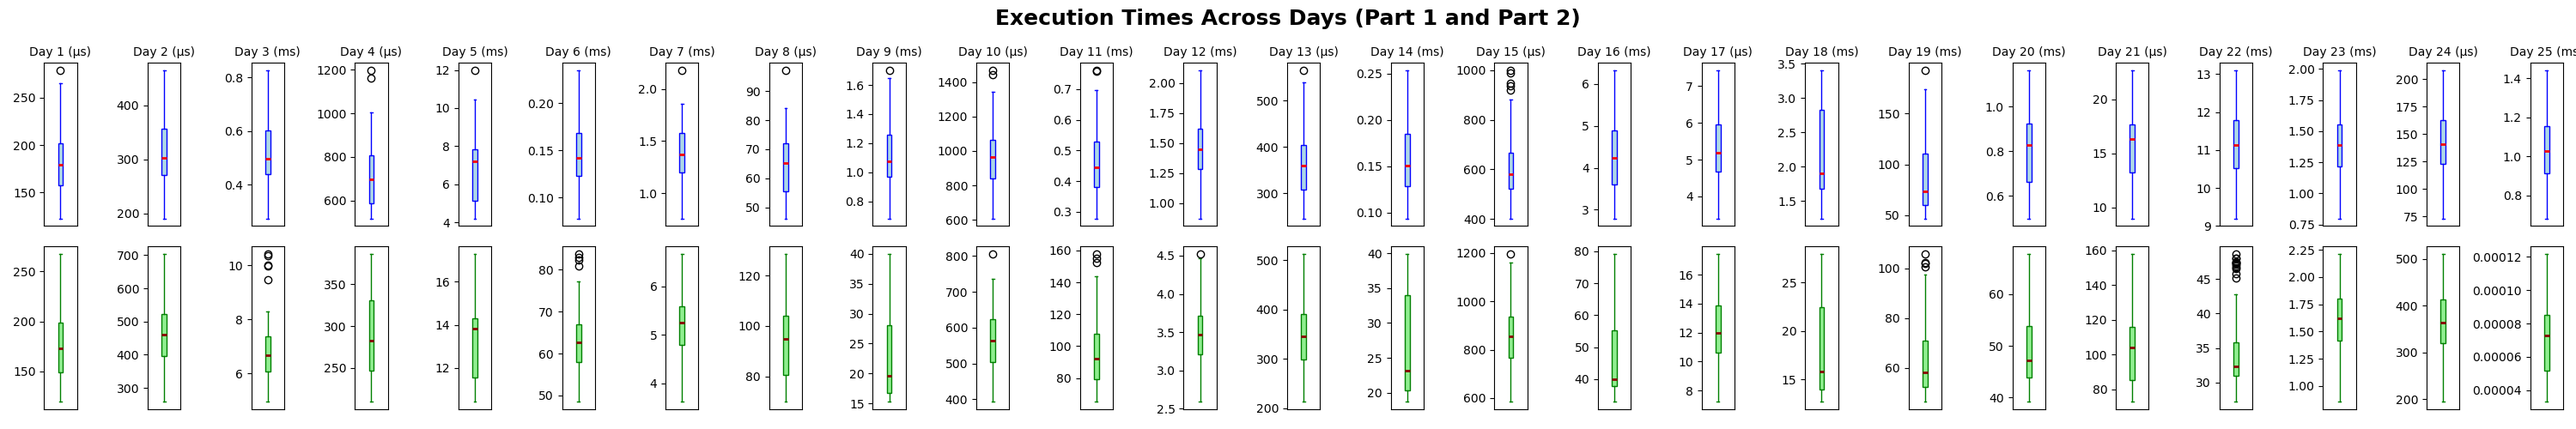
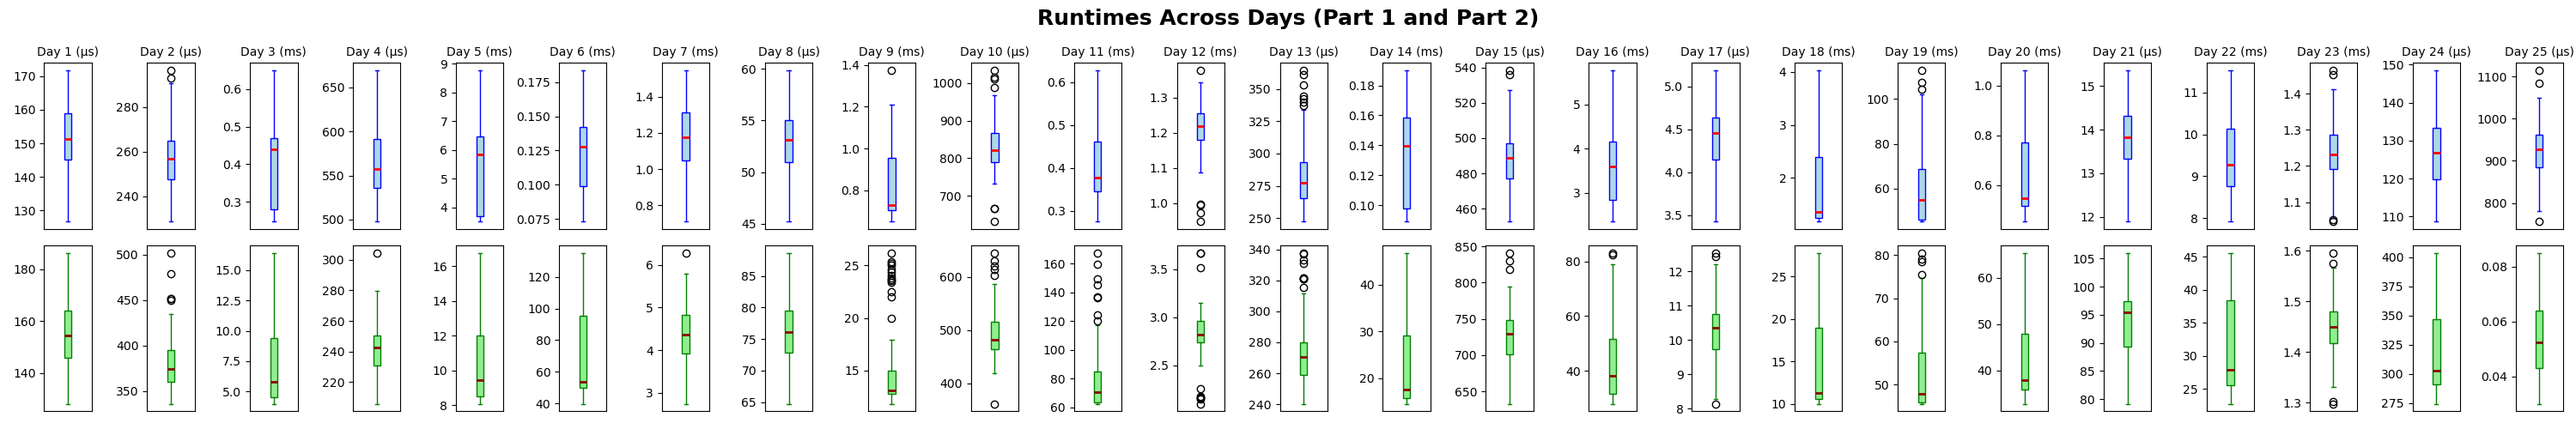
Better benchmark with bar graph

diff --git a/benchmark.py b/benchmark.py
@@ -7,6 +7,7 @@ import time
 
 import matplotlib.pyplot as plt
 import numpy as np
+from matplotlib import ticker
 
 
 # Function to parse the time value from the Rust output
@@ -144,7 +145,9 @@ def main(iterations=100):
                 print(f"Day {day} processing failed: {exc}")
 
     # Plot results
-    all_medians = []
+    part1_medians = []
+    part2_medians = []
+
     fig, axes = plt.subplots(2, days, figsize=(days * 1.2, 5), sharey=False)
     for i, day in enumerate(sorted(results.keys())):
         part1_clean, part2_clean = results[day]
@@ -152,8 +155,8 @@ def main(iterations=100):
         # Calculate the medians of the cleaned data
         part1_med = np.median(part1_clean)
         part2_med = np.median(part2_clean)
-        all_medians.append(part1_med)
-        all_medians.append(part2_med)
+        part1_medians.append(part1_med)
+        part2_medians.append(part2_med)
         print(f"| [Day {day}](./day{day}/src/main.rs) | {format_time(part1_med)} | {format_time(part2_med)} |")
 
         # Determine the appropriate unit and scale
@@ -186,18 +189,78 @@ def main(iterations=100):
         )
         ax2.set_xticks([])
 
-    # General title and finishing touches
-    fig.suptitle("Execution Times Across Days (Part 1 and Part 2)", fontsize=18, fontweight="bold")
-    plt.tight_layout()
-    plt.savefig("ExecutionTimes.png")
-    print("Plots saved as 'ExecutionTimes.png'.")
-
-    # Run each day once again to get total time
-    total_median = sum(all_medians)
-    print(f"Running each day once took {total_median:.2f} seconds.")
-
     end_time = time.time()
     print(f"Benchmarking process took {end_time - start_time:.2f} seconds.")
+
+    # Get the total median value to use for total time
+    total_median = sum(part1_medians) + sum(part2_medians)
+    print(f"Running each day once took {total_median:.2f} seconds.")
+
+    # General title and finishing touches
+    fig.suptitle("Runtimes Across Days (Part 1 and Part 2)", fontsize=18, fontweight="bold")
+    plt.tight_layout()
+    plt.savefig("ExecutionTimes.png")
+    plt.close()
+    print("Plots saved as 'ExecutionTimes.png'.")
+
+    # Generate the labels and bars of the graph
+    labels = [f"Day {i}" for i in range(1, days + 1)]
+    values_1 = [item * 1000 for item in part1_medians]
+    values_2 = [item * 1000 for item in part2_medians]
+
+    x = np.arange(len(labels))
+
+    # Setup the whole graph
+    width = 0.45
+    fig, ax = plt.subplots(figsize=(days * 1.5, 7))
+    rects1 = ax.bar(x - width / 2, values_1, width, label='Part 1')
+    rects2 = ax.bar(x + width / 2, values_2, width, label='Part 2')
+
+    # Add some text for labels, title and custom x-axis tick labels, etc.
+    ax.set_xticks(x)
+    ax.set_xticklabels(labels)
+    ax.set_xlim(-0.5, len(labels) - 0.5)
+    ax.yaxis.set_major_locator(ticker.MultipleLocator(10))
+    plt.ylabel("Runtime (ms)", fontsize=14, color='#333')
+    plt.title(f"Runtimes Across Days ({iterations} Iterations)", fontsize=18, color='#333')
+
+    ax.spines['top'].set_visible(False)
+    ax.spines['right'].set_visible(False)
+    ax.spines['left'].set_visible(False)
+    ax.spines['bottom'].set_color('#ccc')
+
+    ax.set_axisbelow(True)
+    ax.yaxis.grid(True, color='#ccc')
+    ax.xaxis.grid(False)
+
+    def autolabel(rects, labels, color):
+        """Attach a text label above each bar in *rects*, displaying its height."""
+        for i in range(len(rects)):
+            rect = rects[i]
+            label = labels[i]
+            height = rect.get_height()
+
+            minimum_height = 12
+            rotation = 0 if height < minimum_height else 90
+            font_size = 8 if height < minimum_height else 12
+            y_origin = height if height < minimum_height else height / 2
+            ax.annotate(format(label),
+                        xy=(rect.get_x() + rect.get_width() / 2, y_origin),
+                        xytext=(0, 3),  # 3 points vertical offset
+                        textcoords="offset points",
+                        fontsize=font_size,
+                        color=color,
+                        rotation=rotation,
+                        ha='center', va='center')
+
+    autolabel(rects1, [format_time(item) for item in part1_medians], "#238")
+    autolabel(rects2, [format_time(item) for item in part2_medians], "#843")
+
+    # Save the graph to a file
+    plt.tight_layout()
+    plt.savefig("ExecutionTimesBar.png")
+    plt.close()
+    print("Bars saved as 'ExecutionTimesBar.png'.")
 
 
 main()
